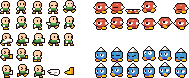
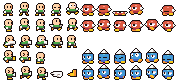
Smooth enemy animations and collisions

diff --git a/src/red_dude.c b/src/red_dude.c
@@ -9,13 +9,13 @@
 #define RED_INIT_HEALTH 50
 
 // Sprite IDs + animations
-#define STANDING_LEFT 18
-#define WALKING_LEFT 18
+#define STANDING_LEFT 5
+#define WALKING_LEFT 16
 #define WALKING_LEFT_LEN 6
 
 // Spritesheet information
 #define SHEET_HEIGHT 5
-#define SHEET_WIDTH 12
+#define SHEET_WIDTH 11
 
 #define RED_WIDTH 16
 #define RED_HEIGHT 16
@@ -34,24 +34,33 @@ void init_red_dude(NPC* this, Vec32 pos) {
     this->hitbox = hitbox;
 
     this->firstFrame = STANDING_LEFT;
-    this->animFrame = 0;
+    this->animFrame = STANDING_LEFT;
+    this->animSeq = 0;
     this->isJumping = false;
-    this->facingLeft = true;
+    this->facingLeft = false;
     this->isMoving = false;
 
     this->isInit = true;
 }
 
-void tick_red_dude(NPC* this, jumpfunc jump) {
+void tick_red_dude(NPC* this, jumpfunc jump, int_fast32_t delay) {
 
     // de brainzz
-    int_fast32_t xvel = 1;
+    int_fast32_t xvel = this->facingLeft ? -1 : 1;
     int_fast32_t xedge = this->hitbox.x + this->hitbox.width;
 
-    int_fast32_t yvel = 2;
+    int_fast32_t yvel = 3;
     int_fast32_t yedge = this->hitbox.y + this->hitbox.height;
 
+    this->isMoving = true;
+
     gravdata dat = jump(xvel, xedge, this->hitbox.x, this->hitbox.width, yvel, yedge, this->hitbox.y, this->hitbox.height);
+
+    if (xvel != dat.xdist) {
+        this->facingLeft = !this->facingLeft;
+    } else {
+        this->facingLeft = dat.xdist < 0;
+    }
 
     this->hitbox.x += dat.xdist;
     this->position.x += dat.xdist;
@@ -59,19 +68,15 @@ void tick_red_dude(NPC* this, jumpfunc jump) {
     this->hitbox.y += dat.ydist;
     this->position.y += dat.ydist;
 
-    static int delay;
-    // only animate once every 4th frame
-    delay = (++delay) % 4;
-    if (delay > 0) {
+    // Only update the animation frame once every 4 frames
+    if ((delay % 4) > 0) {
         return;
     }
 
-    static int_fast32_t anim_seq;
-
     if (this->isMoving) {
         this->firstFrame = WALKING_LEFT;
-        anim_seq = ++anim_seq % WALKING_LEFT_LEN;
-        this->animFrame = this->firstFrame + anim_seq;
+        this->animSeq = ++this->animSeq % WALKING_LEFT_LEN;
+        this->animFrame = this->firstFrame + this->animSeq;
     } else {
         this->firstFrame = STANDING_LEFT;
         this->animFrame = 0;
@@ -86,11 +91,13 @@ void draw_red_dude(NPC* this, Rect32* camera, ALLEGRO_BITMAP* spritesheet) {
     int_fast32_t x1 = this->position.x - camera->x;
     int_fast32_t y1 = this->position.y - camera->y;
 
-    int_fast32_t spriteId = this->firstFrame + this->animFrame;
+    int_fast32_t spriteId = this->animFrame;
     int_fast32_t tx = spriteId % SHEET_WIDTH * RED_WIDTH;
     int_fast32_t ty = spriteId / SHEET_WIDTH * RED_HEIGHT;
 
-    al_draw_bitmap_region(spritesheet, tx, ty, RED_WIDTH, RED_HEIGHT, x1, y1, 0);
+    int flags = this->facingLeft ? 0 : ALLEGRO_FLIP_HORIZONTAL;
+
+    al_draw_bitmap_region(spritesheet, tx, ty, RED_WIDTH, RED_HEIGHT, x1, y1, flags);
 }
 
 NPC red_dude = {

diff --git a/src/game.c b/src/game.c
@@ -28,6 +28,7 @@
 #define MIN_DRAW -16
 #define MAX_DRAW 16
 
+const Level* ALL_LEVELS[2] = { &LEVEL_1, &LEVEL2 };
 const Level* currentLevel;
 
 #define GRAVITY 6
@@ -67,7 +68,7 @@ void game_loadResources()
     tilemap = al_load_bitmap("image/tiles-alpha.png");
     enem_sprites = al_load_bitmap("image/man-and-enemies.png");
 
-    loadLevel(&LEVEL2);
+    loadLevel(ALL_LEVELS[0]);
 
     player = player_init();
 
@@ -94,7 +95,13 @@ void game_unloadResources()
 }
 
 void spawnEnemy() {
-    if (numEnem >= 1) {
+    static int_fast8_t delay = 0;
+    delay = (++delay) % 30;
+    if (delay > 0) {
+        return;
+    }
+
+    if (numEnem >= 10) {
         return;
     }
     enemies[numEnem] = red_dude;
@@ -165,6 +172,9 @@ gravdata calc_collide(int_fast32_t xvel, int_fast32_t xedge, int_fast32_t x, int
 
 State game_processInput(unsigned char *keys)
 {
+    static int_fast32_t delay;
+    delay = (++delay) % 12;
+
     spawnEnemy();
 
     static bool isJumping;
@@ -236,11 +246,11 @@ State game_processInput(unsigned char *keys)
     player.isMoving = (xvel != 0) || (dat.ydist != 0);
     player.isJumping = isJumping;
 
-    player_tick(&player);
+    player_tick(&player, delay);
 
     for(uint_fast16_t i = 0; i < MAX_NPC_COUNT; i++) {
         if (enemies[i].isInit) {
-            enemies[i].tick(&enemies[i], calc_collide);
+            enemies[i].tick(&enemies[i], calc_collide, delay);
         }
     }
 

diff --git a/src/npc.h b/src/npc.h
@@ -21,13 +21,14 @@ typedef gravdata (*jumpfunc) (int_fast32_t xvel, int_fast32_t xedge, int_fast32_
 
 typedef struct NPC {
     void (*init) (struct NPC* npc, Vec32 pos);
-    void (*tick) (struct NPC* npc, jumpfunc jump);
+    void (*tick) (struct NPC* npc, jumpfunc jump, int_fast32_t delay);
     void (*collide) (struct NPC* npc, uint_fast8_t x, uint_fast8_t y);
     void (*draw) (struct NPC* npc, Rect32* camera, ALLEGRO_BITMAP* spritesheet);
 
     bool isInit;
 
     int_fast8_t firstFrame;
+    int_fast8_t animSeq;
     int_fast8_t animFrame;
     bool isJumping;
     bool facingLeft;

diff --git a/src/player.c b/src/player.c
@@ -57,11 +57,9 @@ void player_destroy(Player* player) {
     player->isMoving = false;
 }
 
-void player_tick(Player* player) {
-    static int delay;
+void player_tick(Player* player, int_fast32_t delay) {
     // only animate once every 4th frame
-    delay = (++delay) % 4;
-    if (delay > 0) {
+    if ((delay % 4) > 0) {
         return;
     }
 

diff --git a/src/player.h b/src/player.h
@@ -20,6 +20,6 @@ typedef struct Player {
 Player player_init();
 void player_destroy(Player* player);
 
-void player_tick(Player* player);
+void player_tick(Player* player, int_fast32_t delay);
 
 void player_draw(Player* player, Rect32* camera);
